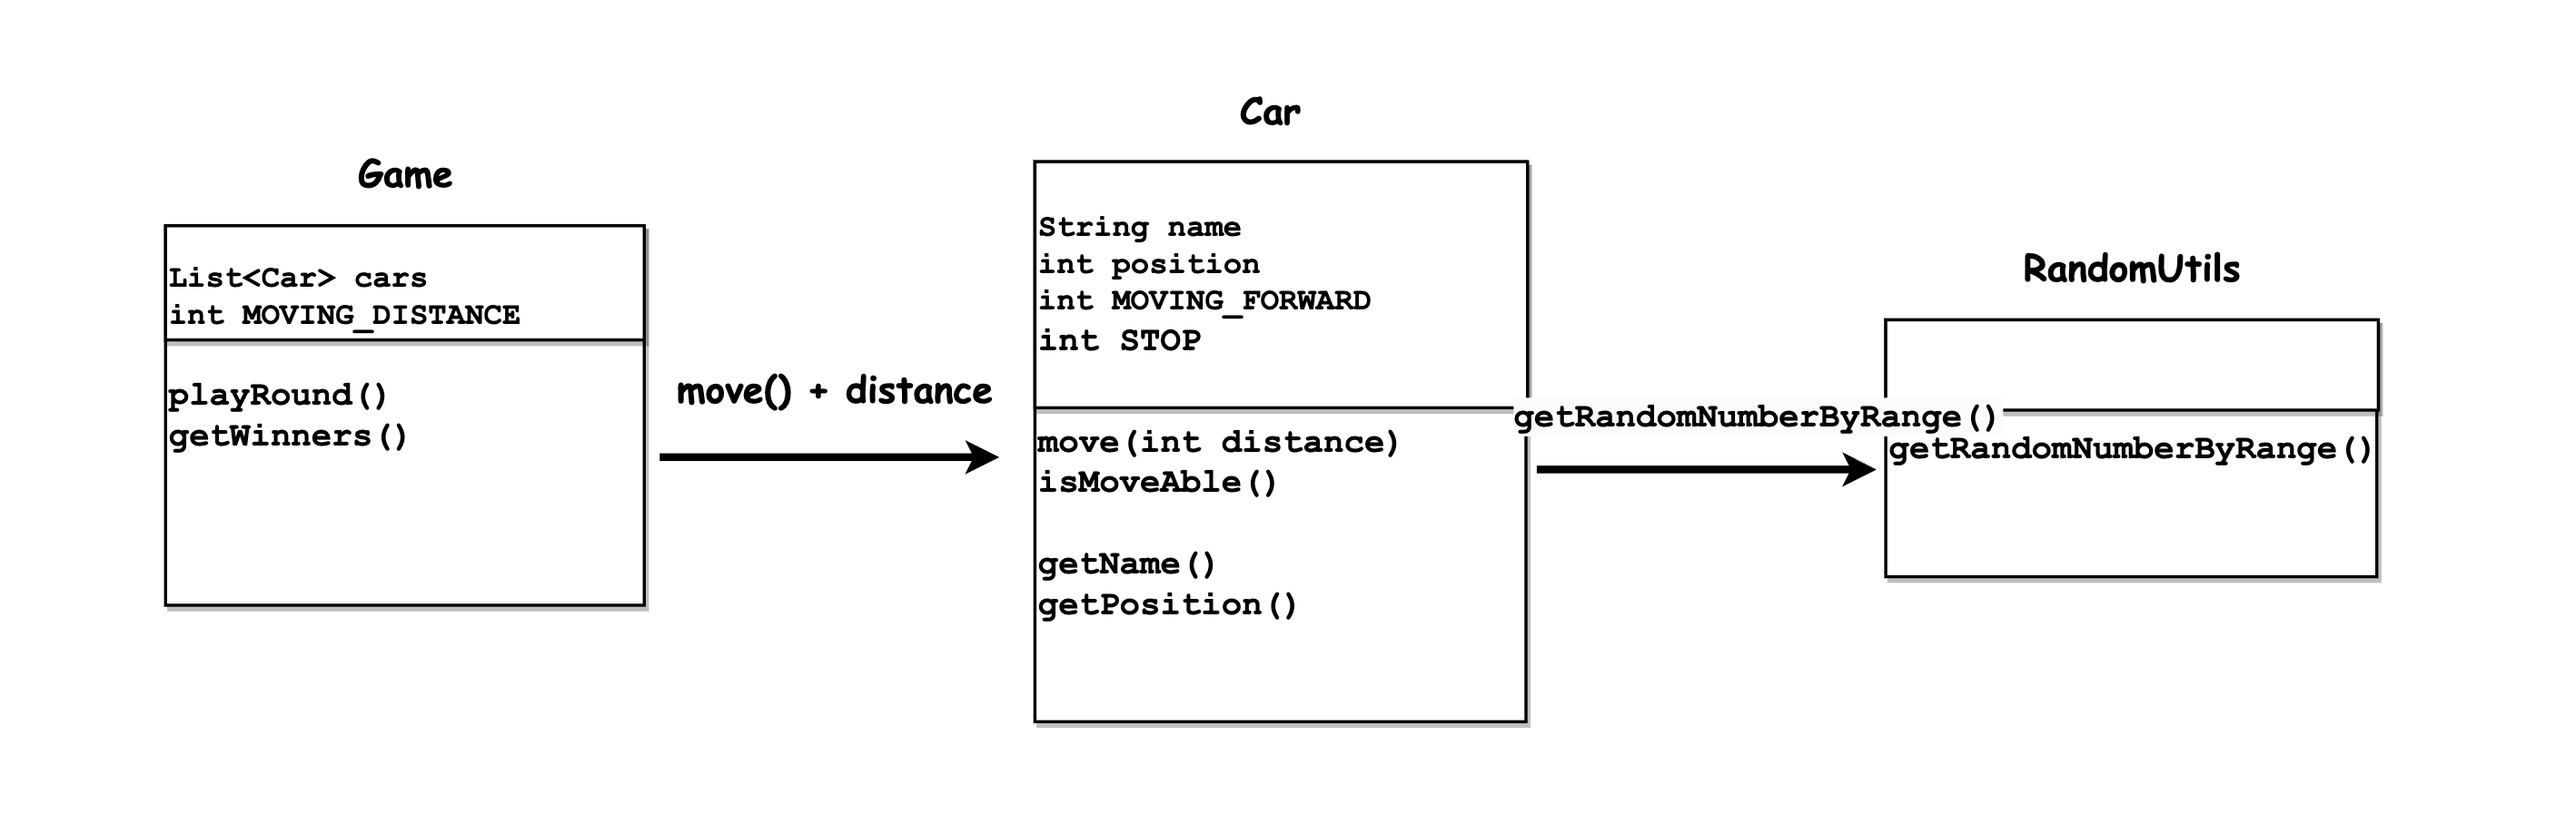
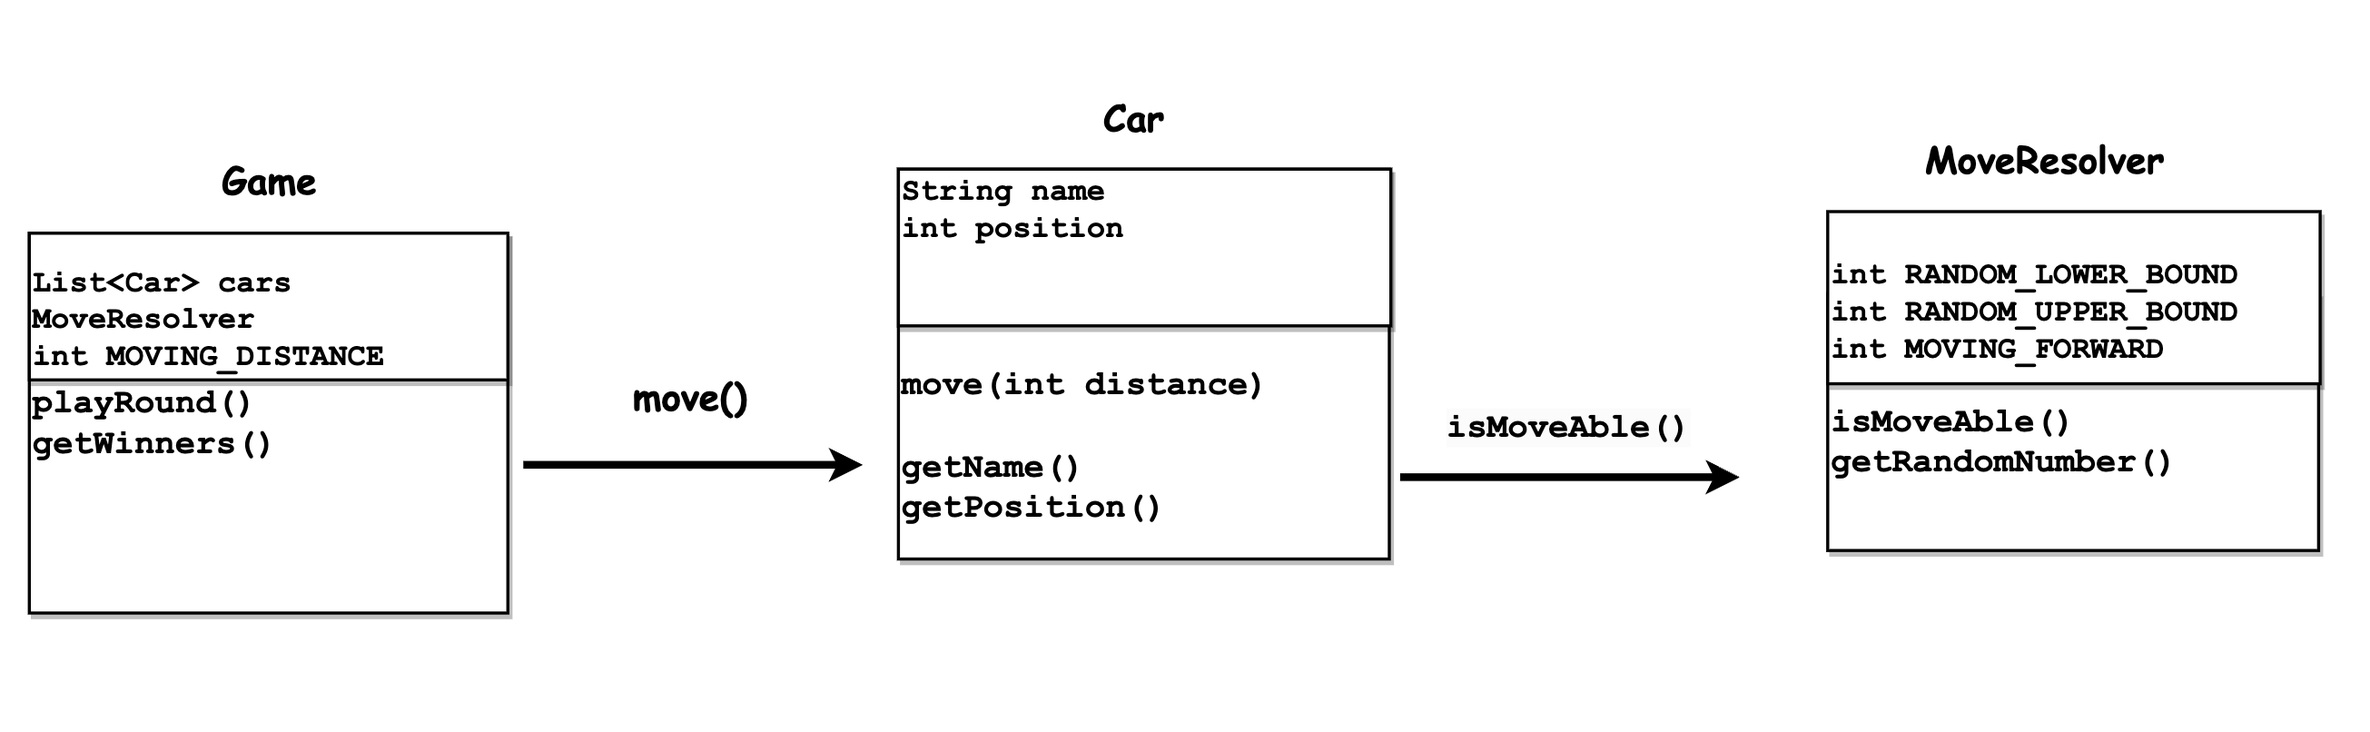
feat: 라운드별 모든 차량에 움직임을 요청하는 기능 구현

diff --git a/src/main/java/racingcar/model/Game.java b/src/main/java/racingcar/model/Game.java
@@ -1,0 +1,24 @@
+package racingcar.model;
+
+import java.util.List;
+import racingcar.util.MoveResolver;
+
+public class Game {
+    private final int MOVING_DISTANCE = 1;
+    private final MoveResolver moveResolver = new MoveResolver();
+    private final List<Car> cars;
+
+    public Game(List<Car> cars) {
+        this.cars = cars;
+    }
+
+    public void playRound() {
+        for (Car car : cars) {
+            car.move(MOVING_DISTANCE,moveResolver);
+        }
+    }
+
+    public void getWinners() {
+
+    }
+}
